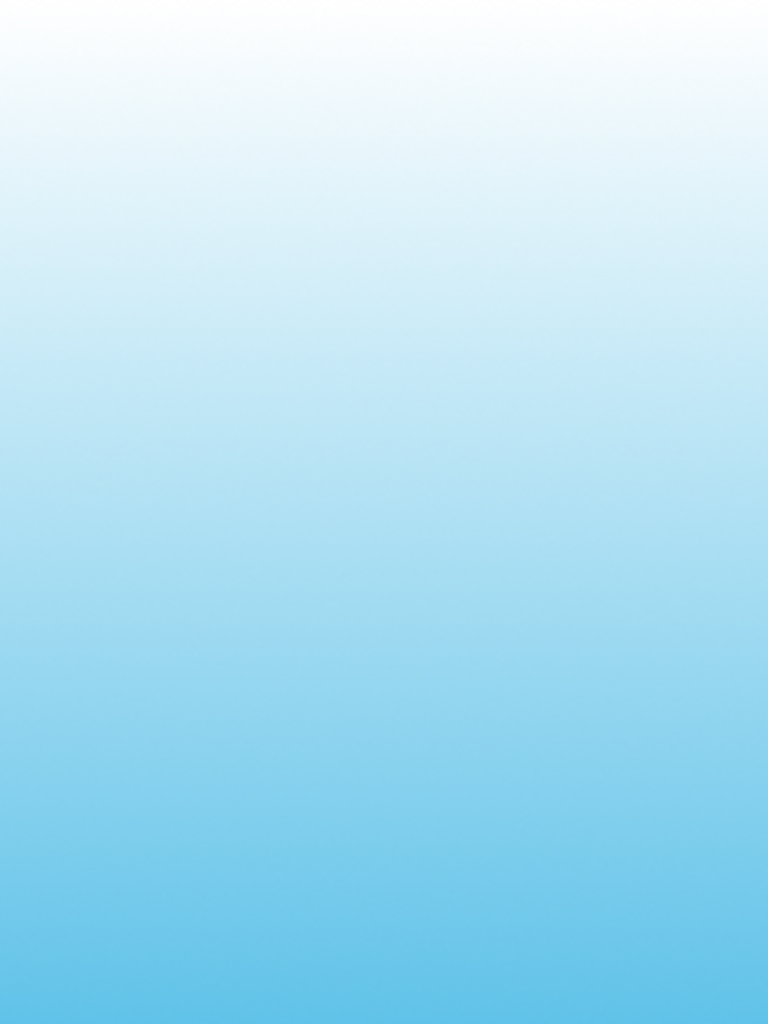
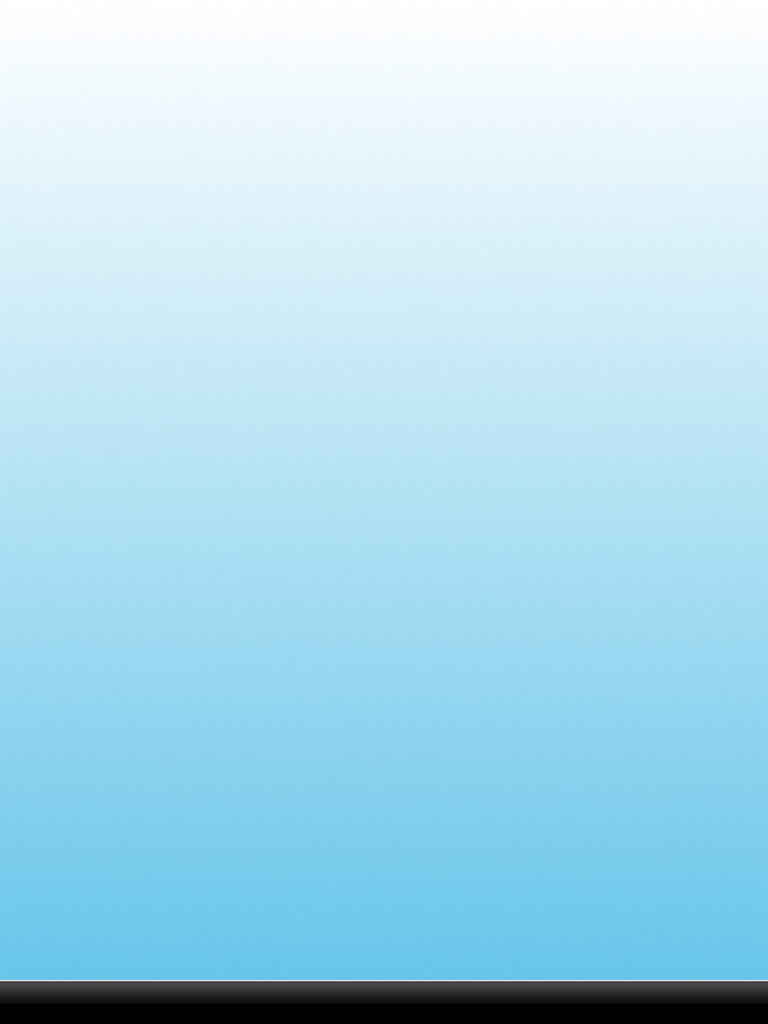
Added iPad code to QuickSignIn, fixed background images

Changed region(s): [[0.0, 0.9375, 1.0, 1.0]]

diff --git a/QuickSignIn/Classes/QSIRootViewController.m b/QuickSignIn/Classes/QSIRootViewController.m
@@ -83,9 +83,12 @@
 	self.navigationItem.rightBarButtonItem.enabled = YES;
 #endif
 	
-	level1ViewController = [[ViewControllerLevel1 alloc] 
-							initWithNibName:@"QSIViewControllerLevel1" 
-							bundle:[NSBundle mainBundle]];
+    if (UI_USER_INTERFACE_IDIOM() == UIUserInterfaceIdiomPad)
+        level1ViewController = [[ViewControllerLevel1 alloc] initWithNibName:@"QSIViewControllerLevel1-iPad" 
+                                                                      bundle:[NSBundle mainBundle]];
+    else
+        level1ViewController = [[ViewControllerLevel1 alloc] initWithNibName:@"QSIViewControllerLevel1" 
+                                                                      bundle:[NSBundle mainBundle]];
     
 //    [[UserModel getUserModel] setNavigationController:[self navigationController]];
 	

diff --git a/QuickSignIn/Classes/QSIViewControllerLevel1.m b/QuickSignIn/Classes/QSIViewControllerLevel1.m
@@ -89,10 +89,12 @@ Copyright (c) 2010, Janrain, Inc.
 {
     [super viewDidLoad];
 	
-	level2ViewController = [[ViewControllerLevel2 alloc] 
-							initWithNibName:@"QSIViewControllerLevel2" 
-							bundle:[NSBundle mainBundle]];
-	
+    if (UI_USER_INTERFACE_IDIOM() == UIUserInterfaceIdiomPad)
+        level2ViewController = [[ViewControllerLevel2 alloc] initWithNibName:@"QSIViewControllerLevel2-iPad" 
+                                                                      bundle:[NSBundle mainBundle]];
+    else
+        level2ViewController = [[ViewControllerLevel2 alloc] initWithNibName:@"QSIViewControllerLevel2" 
+                                                                      bundle:[NSBundle mainBundle]];	
 }
 
 - (void)viewWillAppear:(BOOL)animated
